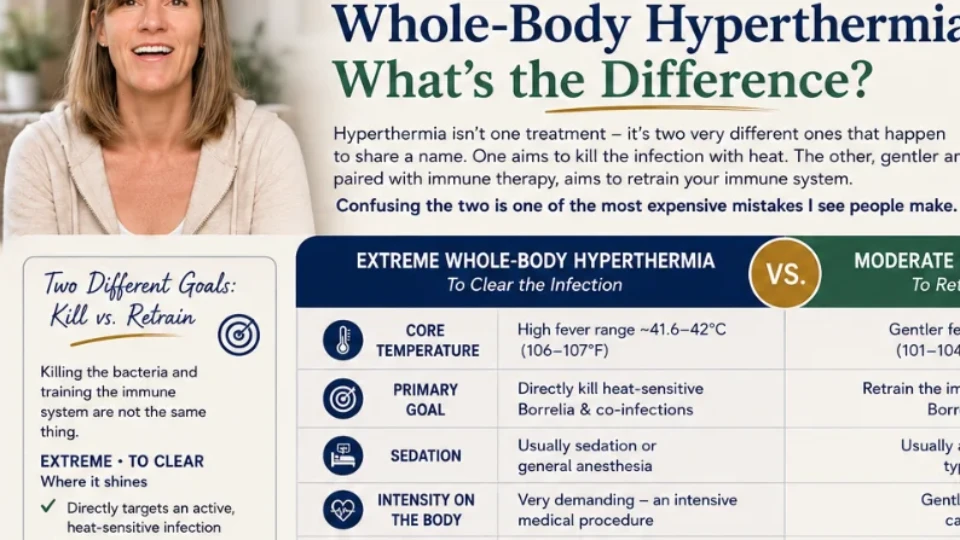
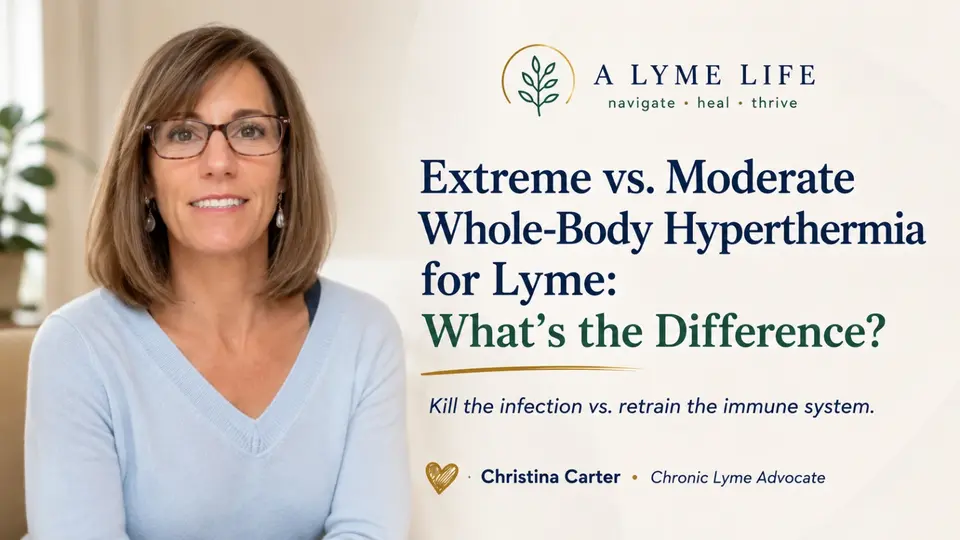
Fix two blog card thumbnails that cropped their title text (#107)
The "Extreme vs. Moderate Hyperthermia" card used a bad 16:9 slice of a
larger infographic — the title was cut mid-word and the whole "vs.
Moderate" column was sliced off. Regenerated the card image from the
clean 1600x900 hero (extreme-vs-moderate-hyperthermia-lyme.webp) so the
full composition shows; cache-bust ?v=20261030 since the filename is
unchanged.

The "Lyme Symptoms in Kids & Children" card used the full 3:2 infographic,
which cover-cropped the title on the 16:9 card. Added a dedicated 16:9
card crop (anchored at top) that keeps the title, checklist, note and
message; repointed the 4 card usages. The article's own hero + og/twitter/
schema still use the full image.

Claude-Session: https://claude.ai/code/session_0147C8brWaCjPDSG4Vf6wbng

diff --git a/blog.html b/blog.html
@@ -141,7 +141,7 @@
         </div>
       </a>
       <a class="post-card reveal" href="blog-extreme-vs-moderate-hyperthermia.html">
-        <div class="media"><image-slot id="bl-vs-hyper" src="assets/img/extreme-vs-moderate-hyperthermia-lyme-card.webp" alt="Extreme vs moderate hyperthermia for Lyme" placeholder="Extreme vs moderate image"></image-slot></div>
+        <div class="media"><image-slot id="bl-vs-hyper" src="assets/img/extreme-vs-moderate-hyperthermia-lyme-card.webp?v=20261030" alt="Extreme vs moderate hyperthermia for Lyme" placeholder="Extreme vs moderate image"></image-slot></div>
         <div class="body">
           <div class="cat">Treatment Comparison</div>
           <h3>Extreme vs. Moderate Hyperthermia: What's the Difference?</h3>
@@ -348,7 +348,7 @@
         </div>
       </a>
       <a class="post-card reveal" href="blog-lyme-symptoms-in-children.html">
-        <div class="media"><image-slot id="bl-children" src="assets/img/lyme-disease-symptoms-in-children.webp" alt="Lyme disease symptoms in kids and children" placeholder="Lyme in children image"></image-slot></div>
+        <div class="media"><image-slot id="bl-children" src="assets/img/lyme-disease-symptoms-in-children-card.webp" alt="Lyme disease symptoms in kids and children" placeholder="Lyme in children image"></image-slot></div>
         <div class="body">
           <div class="cat">Symptoms · Kids &amp; Lyme</div>
           <h3>Lyme Disease Symptoms in Kids &amp; Children: The Signs Parents Miss</h3>

diff --git a/blog-alpha-gal-syndrome.html b/blog-alpha-gal-syndrome.html
@@ -388,7 +388,7 @@
     <div class="rn-head"><span class="eyebrow">Keep Reading</span><h2>What to read next</h2></div>
     <div class="rn-grid">
       <a class="post-card" href="blog-extreme-vs-moderate-hyperthermia.html">
-        <div class="media"><img width="960" height="540" src="assets/img/extreme-vs-moderate-hyperthermia-lyme-card.webp" alt="Extreme vs moderate hyperthermia for Lyme" loading="lazy" decoding="async" style="width:100%;height:100%;object-fit:cover;display:block;" /></div>
+        <div class="media"><img width="960" height="540" src="assets/img/extreme-vs-moderate-hyperthermia-lyme-card.webp?v=20261030" alt="Extreme vs moderate hyperthermia for Lyme" loading="lazy" decoding="async" style="width:100%;height:100%;object-fit:cover;display:block;" /></div>
         <div class="body">
           <div class="cat">Treatment Comparison</div>
           <h3>Extreme vs. Moderate Hyperthermia</h3>

diff --git a/blog-alternative-therapies.html b/blog-alternative-therapies.html
@@ -418,7 +418,7 @@
     <div class="rn-head"><span class="eyebrow">Keep Reading</span><h2>What to read next</h2></div>
     <div class="rn-grid">
       <a class="post-card" href="blog-extreme-vs-moderate-hyperthermia.html">
-        <div class="media"><img width="960" height="540" src="assets/img/extreme-vs-moderate-hyperthermia-lyme-card.webp" alt="Extreme vs moderate hyperthermia for Lyme" loading="lazy" decoding="async" style="width:100%;height:100%;object-fit:cover;display:block;" /></div>
+        <div class="media"><img width="960" height="540" src="assets/img/extreme-vs-moderate-hyperthermia-lyme-card.webp?v=20261030" alt="Extreme vs moderate hyperthermia for Lyme" loading="lazy" decoding="async" style="width:100%;height:100%;object-fit:cover;display:block;" /></div>
         <div class="body">
           <div class="cat">Treatment Comparison</div>
           <h3>Extreme vs. Moderate Hyperthermia</h3>

diff --git a/blog-germany.html b/blog-germany.html
@@ -451,7 +451,7 @@
     <div class="rn-head"><span class="eyebrow">Keep Reading</span><h2>What to read next</h2></div>
     <div class="rn-grid">
       <a class="post-card" href="blog-extreme-vs-moderate-hyperthermia.html">
-        <div class="media"><img width="960" height="540" src="assets/img/extreme-vs-moderate-hyperthermia-lyme-card.webp" alt="Extreme vs moderate hyperthermia for Lyme" loading="lazy" decoding="async" style="width:100%;height:100%;object-fit:cover;display:block;" /></div>
+        <div class="media"><img width="960" height="540" src="assets/img/extreme-vs-moderate-hyperthermia-lyme-card.webp?v=20261030" alt="Extreme vs moderate hyperthermia for Lyme" loading="lazy" decoding="async" style="width:100%;height:100%;object-fit:cover;display:block;" /></div>
         <div class="body">
           <div class="cat">Treatment Comparison</div>
           <h3>Extreme vs. Moderate Hyperthermia</h3>

diff --git a/blog-herxheimer-reaction.html b/blog-herxheimer-reaction.html
@@ -376,7 +376,7 @@
     <div class="rn-head"><span class="eyebrow">Keep Reading</span><h2>What to read next</h2></div>
     <div class="rn-grid">
       <a class="post-card" href="blog-extreme-vs-moderate-hyperthermia.html">
-        <div class="media"><img width="960" height="540" src="assets/img/extreme-vs-moderate-hyperthermia-lyme-card.webp" alt="Extreme vs moderate hyperthermia for Lyme" loading="lazy" decoding="async" style="width:100%;height:100%;object-fit:cover;display:block;" /></div>
+        <div class="media"><img width="960" height="540" src="assets/img/extreme-vs-moderate-hyperthermia-lyme-card.webp?v=20261030" alt="Extreme vs moderate hyperthermia for Lyme" loading="lazy" decoding="async" style="width:100%;height:100%;object-fit:cover;display:block;" /></div>
         <div class="body">
           <div class="cat">Treatment Comparison</div>
           <h3>Extreme vs. Moderate Hyperthermia</h3>

diff --git a/blog-ldn-vs-antibiotics.html b/blog-ldn-vs-antibiotics.html
@@ -406,7 +406,7 @@
     <div class="rn-head"><span class="eyebrow">Keep Reading</span><h2>What to read next</h2></div>
     <div class="rn-grid">
       <a class="post-card" href="blog-extreme-vs-moderate-hyperthermia.html">
-        <div class="media"><img width="960" height="540" src="assets/img/extreme-vs-moderate-hyperthermia-lyme-card.webp" alt="Extreme vs moderate hyperthermia for Lyme" loading="lazy" decoding="async" style="width:100%;height:100%;object-fit:cover;display:block;" /></div>
+        <div class="media"><img width="960" height="540" src="assets/img/extreme-vs-moderate-hyperthermia-lyme-card.webp?v=20261030" alt="Extreme vs moderate hyperthermia for Lyme" loading="lazy" decoding="async" style="width:100%;height:100%;object-fit:cover;display:block;" /></div>
         <div class="body">
           <div class="cat">Treatment Comparison</div>
           <h3>Extreme vs. Moderate Hyperthermia</h3>

diff --git a/blog-lyme-recovery-timeline.html b/blog-lyme-recovery-timeline.html
@@ -409,7 +409,7 @@
     <div class="rn-head"><span class="eyebrow">Keep Reading</span><h2>What to read next</h2></div>
     <div class="rn-grid">
       <a class="post-card" href="blog-extreme-vs-moderate-hyperthermia.html">
-        <div class="media"><img width="960" height="540" src="assets/img/extreme-vs-moderate-hyperthermia-lyme-card.webp" alt="Extreme vs moderate hyperthermia for Lyme" loading="lazy" decoding="async" style="width:100%;height:100%;object-fit:cover;display:block;" /></div>
+        <div class="media"><img width="960" height="540" src="assets/img/extreme-vs-moderate-hyperthermia-lyme-card.webp?v=20261030" alt="Extreme vs moderate hyperthermia for Lyme" loading="lazy" decoding="async" style="width:100%;height:100%;object-fit:cover;display:block;" /></div>
         <div class="body">
           <div class="cat">Treatment Comparison</div>
           <h3>Extreme vs. Moderate Hyperthermia</h3>

diff --git a/blog-lyme-treatment-centers.html b/blog-lyme-treatment-centers.html
@@ -472,7 +472,7 @@
     <div class="rn-head"><span class="eyebrow">Keep Reading</span><h2>What to read next</h2></div>
     <div class="rn-grid">
       <a class="post-card" href="blog-extreme-vs-moderate-hyperthermia.html">
-        <div class="media"><img width="960" height="540" src="assets/img/extreme-vs-moderate-hyperthermia-lyme-card.webp" alt="Extreme vs moderate hyperthermia for Lyme" loading="lazy" decoding="async" style="width:100%;height:100%;object-fit:cover;display:block;" /></div>
+        <div class="media"><img width="960" height="540" src="assets/img/extreme-vs-moderate-hyperthermia-lyme-card.webp?v=20261030" alt="Extreme vs moderate hyperthermia for Lyme" loading="lazy" decoding="async" style="width:100%;height:100%;object-fit:cover;display:block;" /></div>
         <div class="body">
           <div class="cat">Treatment Comparison</div>
           <h3>Extreme vs. Moderate Hyperthermia</h3>

diff --git a/blog-sanoviv-review.html b/blog-sanoviv-review.html
@@ -357,7 +357,7 @@
     <div class="rn-head"><span class="eyebrow">Keep Reading</span><h2>What to read next</h2></div>
     <div class="rn-grid">
       <a class="post-card" href="blog-extreme-vs-moderate-hyperthermia.html">
-        <div class="media"><img width="960" height="540" src="assets/img/extreme-vs-moderate-hyperthermia-lyme-card.webp" alt="Extreme vs moderate hyperthermia for Lyme" loading="lazy" decoding="async" style="width:100%;height:100%;object-fit:cover;display:block;" /></div>
+        <div class="media"><img width="960" height="540" src="assets/img/extreme-vs-moderate-hyperthermia-lyme-card.webp?v=20261030" alt="Extreme vs moderate hyperthermia for Lyme" loading="lazy" decoding="async" style="width:100%;height:100%;object-fit:cover;display:block;" /></div>
         <div class="body">
           <div class="cat">Treatment Comparison</div>
           <h3>Extreme vs. Moderate Hyperthermia</h3>

diff --git a/treg-therapy.html b/treg-therapy.html
@@ -485,7 +485,7 @@
     <div class="rn-head"><span class="eyebrow">Keep Reading</span><h2>What to read next</h2></div>
     <div class="rn-grid">
       <a class="post-card" href="blog-extreme-vs-moderate-hyperthermia.html">
-        <div class="media"><img width="960" height="540" src="assets/img/extreme-vs-moderate-hyperthermia-lyme-card.webp" alt="Extreme vs moderate hyperthermia for Lyme" loading="lazy" decoding="async" style="width:100%;height:100%;object-fit:cover;display:block;" /></div>
+        <div class="media"><img width="960" height="540" src="assets/img/extreme-vs-moderate-hyperthermia-lyme-card.webp?v=20261030" alt="Extreme vs moderate hyperthermia for Lyme" loading="lazy" decoding="async" style="width:100%;height:100%;object-fit:cover;display:block;" /></div>
         <div class="body">
           <div class="cat">Treatment Comparison</div>
           <h3>Extreme vs. Moderate Hyperthermia</h3>

diff --git a/blog-pans-pandas-lyme.html b/blog-pans-pandas-lyme.html
@@ -389,7 +389,7 @@
     <div class="rn-head"><span class="eyebrow">Keep Reading</span><h2>What to read next</h2></div>
     <div class="rn-grid">
       <a class="post-card" href="blog-lyme-symptoms-in-children.html">
-        <div class="media"><img width="1536" height="1024" src="assets/img/lyme-disease-symptoms-in-children.webp" alt="Lyme disease symptoms in kids and children" loading="lazy" decoding="async" style="width:100%;height:100%;object-fit:cover;display:block;" /></div>
+        <div class="media"><img width="1536" height="1024" src="assets/img/lyme-disease-symptoms-in-children-card.webp" alt="Lyme disease symptoms in kids and children" loading="lazy" decoding="async" style="width:100%;height:100%;object-fit:cover;display:block;" /></div>
         <div class="body">
           <div class="cat">Symptoms · Kids & Lyme</div>
           <h3>Lyme Symptoms in Kids & Children</h3>

diff --git a/blog-arminlabs-vs-igenex.html b/blog-arminlabs-vs-igenex.html
@@ -434,7 +434,7 @@
         </div>
       </a>
       <a class="post-card" href="blog-extreme-vs-moderate-hyperthermia.html">
-        <div class="media"><img width="960" height="540" src="assets/img/extreme-vs-moderate-hyperthermia-lyme-card.webp" alt="Extreme vs moderate hyperthermia for Lyme" loading="lazy" decoding="async" style="width:100%;height:100%;object-fit:cover;display:block;" /></div>
+        <div class="media"><img width="960" height="540" src="assets/img/extreme-vs-moderate-hyperthermia-lyme-card.webp?v=20261030" alt="Extreme vs moderate hyperthermia for Lyme" loading="lazy" decoding="async" style="width:100%;height:100%;object-fit:cover;display:block;" /></div>
         <div class="body">
           <div class="cat">Treatment Comparison</div>
           <h3>Extreme vs. Moderate Hyperthermia</h3>
